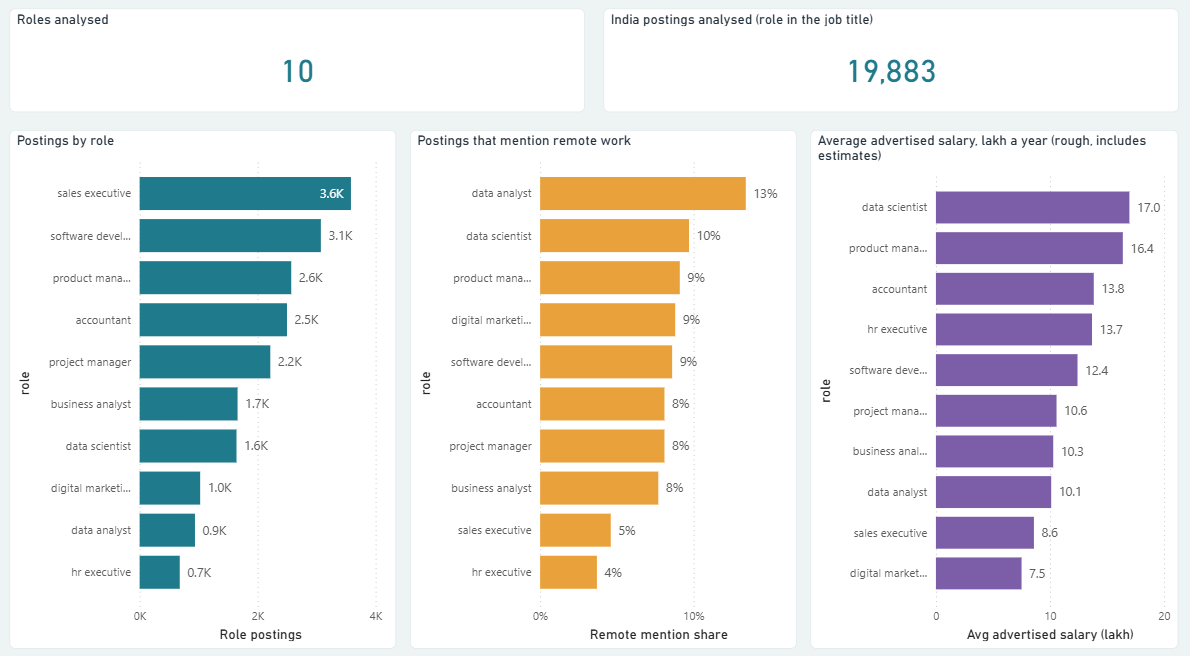
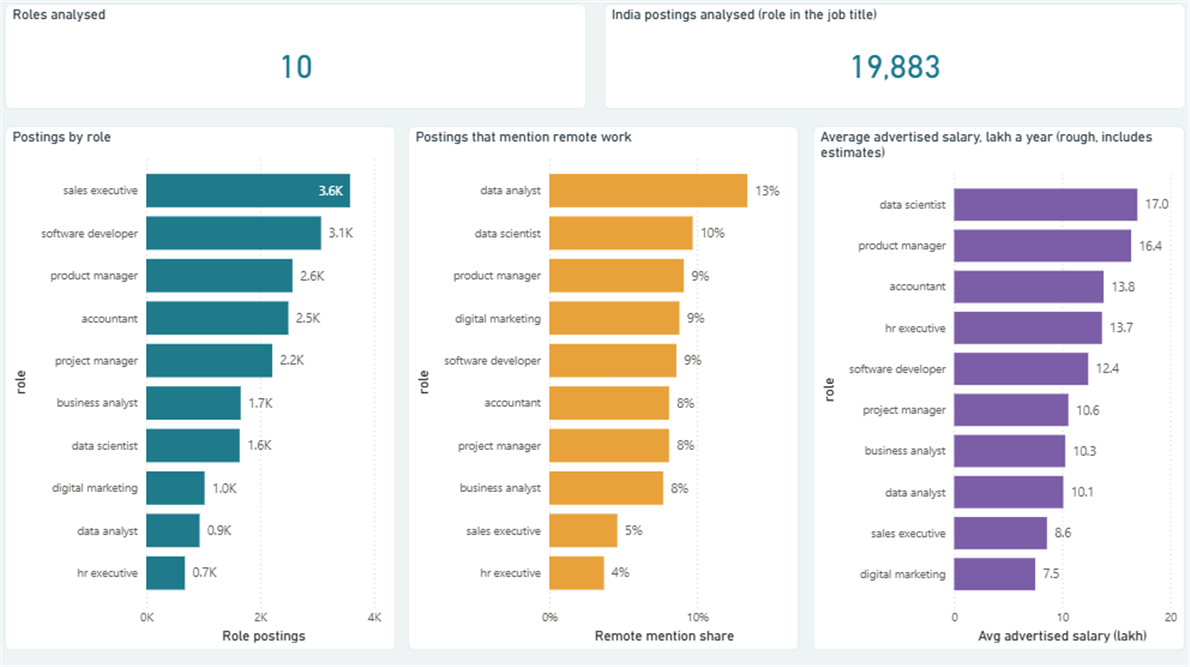
added column guide and tests, fixed cut off labels in dashboard

diff --git a/tests/test_skill_gap.py b/tests/test_skill_gap.py
@@ -1,0 +1,32 @@
+"""Small checks for the skill gap function. Run with: python -m pytest tests"""
+import sys
+from pathlib import Path
+
+sys.path.insert(0, str(Path(__file__).resolve().parents[1] / "analysis"))
+import skill_gap as sg  # noqa: E402
+
+EXAMPLE = ["SQL", "Excel", "Power BI", "Python", "statistics"]
+
+
+def test_example_candidate_data_scientist():
+    result = sg.skill_gap("data scientist", EXAMPLE)
+    assert result["coverage_pct"] == 49.6
+    assert result["missing"][0] == "machine learning"
+
+
+def test_no_skills_gives_zero():
+    assert sg.skill_gap("data analyst", [])["coverage_pct"] == 0
+
+
+def test_all_top_skills_gives_hundred():
+    demand = sg.load_demand()
+    top8 = (demand[(demand["role"] == "data analyst") & (demand["kind"] == "skill")]
+            .sort_values(["postings", "term"], ascending=[False, True]).head(8)["term"].tolist())
+    assert sg.skill_gap("data analyst", top8)["coverage_pct"] == 100
+
+
+if __name__ == "__main__":
+    for name, fn in list(globals().items()):
+        if name.startswith("test_"):
+            fn()
+            print("ok", name)

diff --git a/data_collection/fetch_adzuna.py b/data_collection/fetch_adzuna.py
@@ -26,8 +26,7 @@ import requests
 RAW = Path(__file__).resolve().parents[1] / "data" / "raw"
 RESULTS_PER_PAGE = 50
 
-# (country code, search phrase, pages). This study covers India only.
-# India only.
+# (country code, search phrase, pages). India only.
 PLAN = [
     ("in", "data analyst", 5),
     ("in", "business intelligence analyst", 3),

diff --git a/README.md b/README.md
@@ -4,6 +4,8 @@
 
 What skills do companies look for in a role, and what skills does a candidate have? Once I had both, I could see what the candidate is missing for the role they want. I collected postings for ten roles in India from the Adzuna API (24 November 2026), counted the skills in the full job text, and built a skill-gap check on top. It uses Python and SQL, with a Power BI dashboard.
 
+It's aimed at people like me who are trying to decide what to learn for the role they want.
+
 ## What I found
 
 | Role | India postings | Top skills mentioned |
@@ -19,9 +21,9 @@ What skills do companies look for in a role, and what skills does a candidate ha
 | Data analyst | 938 | SQL 67%, Python 46%, Excel 45% |
 | HR executive | 680 | recruitment 74%, communication 66%, onboarding 52% |
 
-Postings are those with the role in the job title. The percentages are the share of those postings whose full text mentions the skill. Adzuna does the matching on the full text, so the counts don't depend on the 500-character preview the API returns.
+Postings are those with the role in the job title. The percentages are the share of those postings whose full text mentions the skill. The API only gives 500 characters per ad, so I asked Adzuna to count matches on the full text instead.
 
-Each role has its own skills, so a gap only makes sense for a target role. Excel is the most shared skill. It's on the list for 8 of the 10 roles and is highest for accountants (54%). SQL isn't only for analysts. It's in 56% of data scientist postings, 34% of business analyst and 23% of software developer postings. Only 7 of the skills I tracked appear across three or more roles: Excel, SQL, Python, Power BI, Agile, JIRA and AWS.
+Each role asks for quite different things, so I always compare against one target role. Excel is the most shared skill. It's on the list for 8 of the 10 roles and is highest for accountants (54%). SQL also shows up outside analyst roles: it's in 56% of data scientist postings, 34% of business analyst and 23% of software developer postings. Only 7 of the skills I tracked appear across three or more roles: Excel, SQL, Python, Power BI, Agile, JIRA and AWS.
 
 "Remote" is mentioned in 4% to 13% of postings (data analyst is highest at 13%, the other nine are under 10%). "Hybrid" is in 1% to 15%. These are keyword mentions, not a count of fully remote jobs.
 
@@ -64,7 +66,7 @@ Five pages: roles overview, skills by role, skill gap across roles, skill gap fo
 
 ## How I built it
 
-It's a simple ETL flow. Extract: `fetch_role_demand.py` asks the API, for each role and skill, how many postings match, and `fetch_adzuna.py` downloads the data analyst postings. Transform: `build_dataset.py` removes repeated adverts, keeps analyst titles and recent dates, and works out role group, seniority, remote mentions, experience and salary. Load: the cleaned tables are saved as CSV files in `data/`. After that, the notebooks and SQL queries answer the questions, and `analysis/skill_gap.py` runs the gap check from the command line.
+I used the API to get the counts for each role and skill (`fetch_role_demand.py`) and to download the data analyst postings (`fetch_adzuna.py`). Then `build_dataset.py` cleans the postings: it removes repeated adverts, keeps analyst titles from June 2026 on, and works out seniority, remote mentions, experience and salary. Everything is saved as CSV in `data/`, and the notebooks, SQL and Power BI all read from there. `analysis/skill_gap.py` runs the gap check from the command line, and `tests/` has a few checks for it.
 
 ## Data analyst postings
 
@@ -78,9 +80,14 @@ Adzuna only returns the first 500 characters of each posting. For data analyst I
 
 More in [`notebooks/data_analyst_deep_dive.ipynb`](notebooks/data_analyst_deep_dive.ipynb).
 
-## Things to keep in mind
+## Limits
 
-This is one job site on one day, so LinkedIn or Naukri may look different. A skill being mentioned doesn't mean it's required. I only count postings with the role in the title, so "HR generalist" isn't counted under "hr executive". The skill lists are my own choice. Salary figures include Adzuna's estimates, so I don't rely on them. The gap score ignores experience, degrees and soft skills, and the example candidate is made up. It only covers India.
+- It's one job site on one day, so LinkedIn or Naukri may look different.
+- A skill being mentioned doesn't mean it's required.
+- I only count postings with the role in the title, so "HR generalist" isn't counted under "hr executive".
+- The skill lists are my own choice, and salary figures include Adzuna's estimates.
+- The gap score ignores experience, degrees and soft skills, and the example candidate is made up.
+- It only covers India.
 
 ## What's in the repo
 
@@ -89,11 +96,11 @@ This is one job site on one day, so LinkedIn or Naukri may look different. A ski
 - [`sql/job_market_queries.sql`](sql/job_market_queries.sql): 19 SQL queries (joins, window functions, CTEs, a skill-gap query) with the results I got
 - [`analysis/skill_gap.py`](analysis/skill_gap.py): the command-line gap tool
 - [`powerbi/`](powerbi/): the Power BI project
-- [`data/`](data/): the cleaned datasets and the example candidate
+- [`data/`](data/): the cleaned datasets and the example candidate, with a short [column guide](data/README.md)
 - [`data_collection/`](data_collection/): the scripts that collect and clean the data
 - [`docs/web-app.md`](docs/web-app.md): an earlier web app version (FastAPI, React, MongoDB)
 
-I don't publish the job descriptions themselves, only the counts and the columns I worked out from them.
+I don't publish the job descriptions themselves, only the counts and the columns I worked out from them. So the raw downloads aren't in the repo, and `build_dataset.py` needs a fresh download with your own key. The CSVs in `data/` are enough to rerun the notebooks, SQL and dashboard.
 
 To refresh the data:
 

diff --git a/data/README.md b/data/README.md
@@ -1,0 +1,42 @@
+# Data
+
+All files come from the Adzuna job search API for India, collected on 24 November 2026.
+
+## role_skill_demand.csv
+
+One row per role and term. This is what the main analysis and the skill gap use.
+
+| Column | What it means |
+|---|---|
+| role | One of the ten roles, matched in the job title |
+| kind | `total` (all postings for the role), `skill`, or `work arrangement` (remote, work from home, hybrid) |
+| term | The skill or phrase I searched for |
+| postings | Number of postings for the role whose full text mentions the term |
+| share_pct | postings divided by the role's total, times 100 |
+| avg_advertised_salary_inr | Adzuna's average advertised yearly salary in rupees, only on `total` rows. Includes their estimates |
+| fetched_on | Date I collected it |
+
+## candidate_skills.csv
+
+The example candidate: one row per skill with `have` set to Yes or No. Change it to try your own skills.
+
+## india_data_analyst_jobs.csv
+
+212 recent data analyst type postings (June to November 2026), one row each, after cleaning.
+
+| Column | What it means |
+|---|---|
+| job_id, title, company, city | From the posting |
+| posted_date, posted_month | When it was posted |
+| role_group | My grouping of the title (data analyst, BI analyst / developer, business analyst ...) |
+| seniority | Entry level, Mid / not stated, or Senior / lead / manager, from the title |
+| city_group | The top cities, everything else as "Other cities" |
+| work_mode | Remote / WFH, Hybrid, or Not stated, from the text |
+| experience_years_min | Smallest number of years asked for, if the text says |
+| salary_lpa | Stated yearly salary in lakh rupees (middle of the range), only when it looked believable |
+| skills_found | How many of my skills appear in the first 500 characters |
+| SQL, Excel, Power BI ... | True if that skill appears in the first 500 characters |
+
+## india_job_skills.csv
+
+The same 212 postings in long format: one row per posting and skill found. The SQL queries use it for joins.
